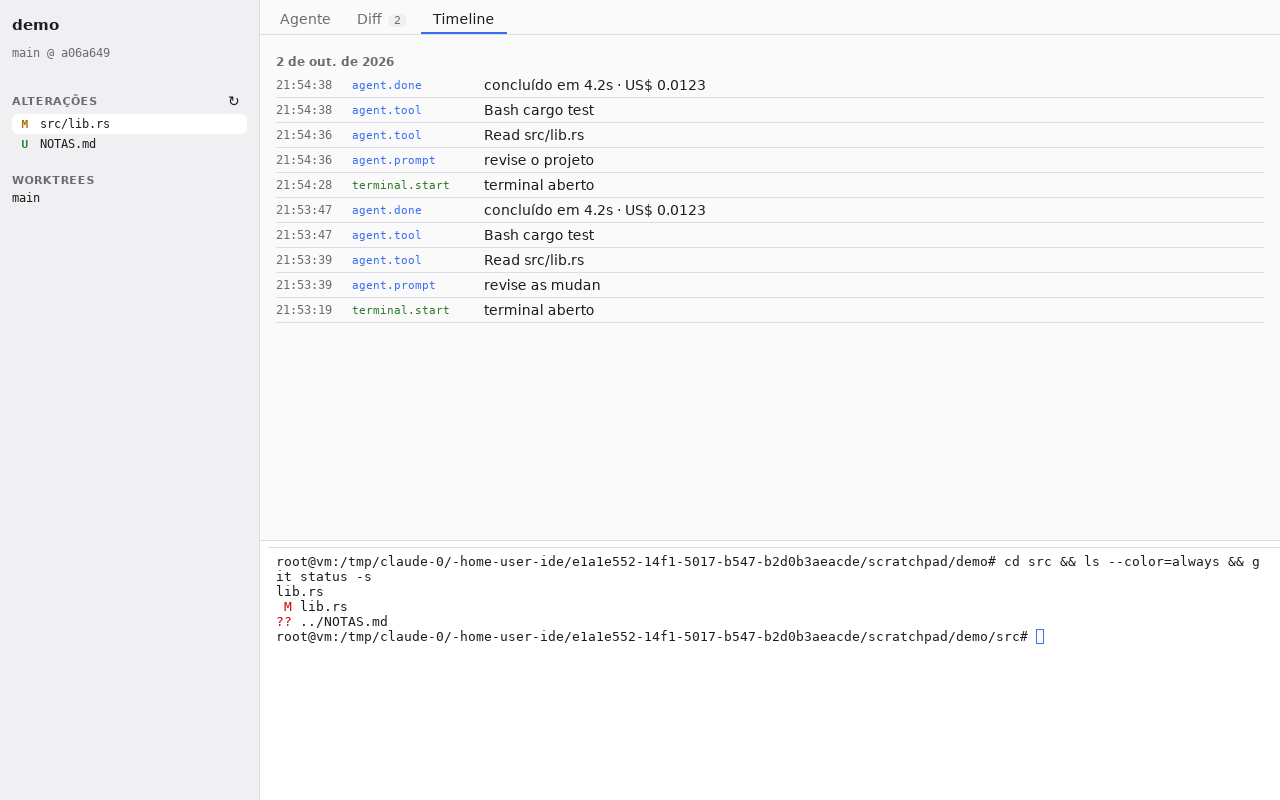
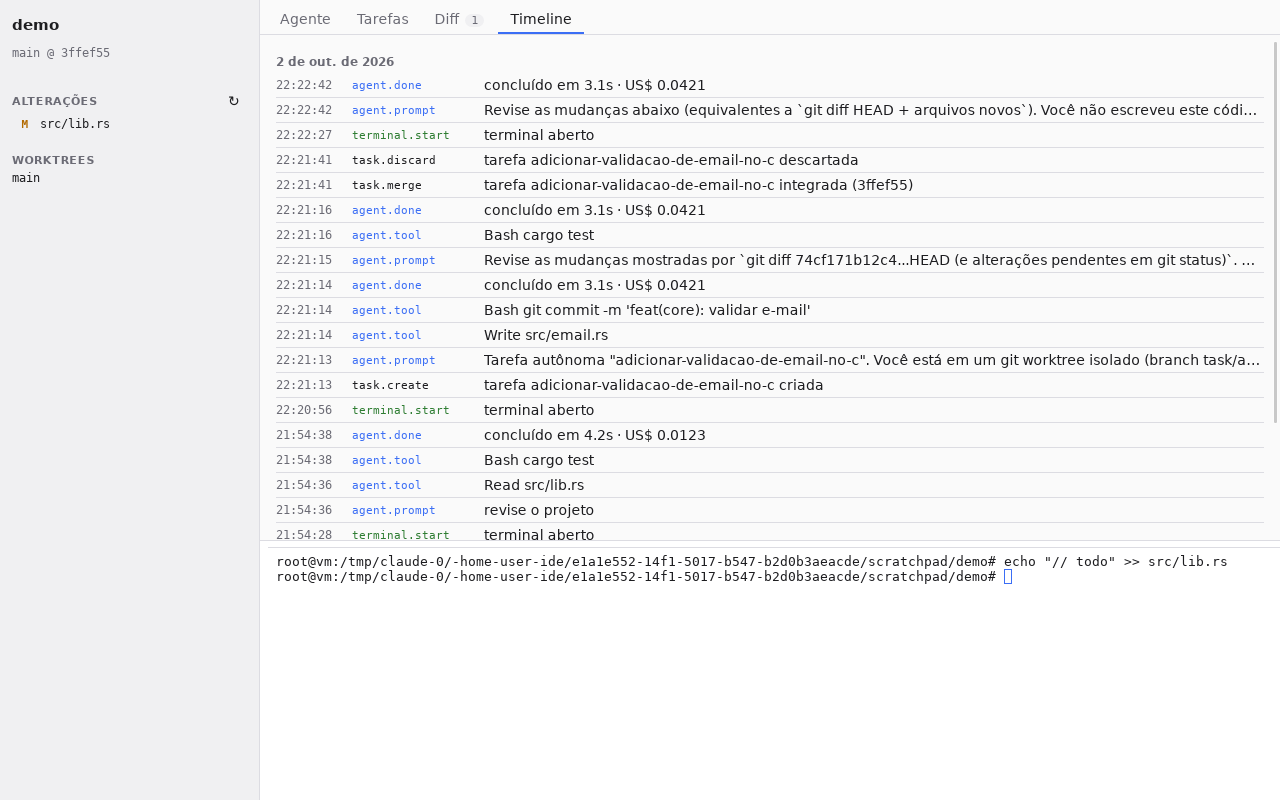
docs: documentar fase 2 com adr de autonomia e capturas
ADR 0002: autonomia total só em worktree de tarefa, checada no Rust, e
estado da tarefa na config do git.

Claude-Session: https://claude.ai/code/session_01Ag7BhT17Ph4mGoDXFdyhVD

diff --git a/README.md b/README.md
@@ -5,27 +5,39 @@ Visão completa e fases em [`docs/ROADMAP.md`](docs/ROADMAP.md).
 
 ## App desktop (Tauri 2 + SolidJS)
 
-![Agente com aprovação de comando](docs/images/agente.png)
+![Tarefa autônoma em worktree](docs/images/tarefa.png)
 
 | | |
 |---|---|
-| ![Diff e terminal](docs/images/diff-terminal.png) | ![Timeline](docs/images/timeline.png) |
+| ![Revisão automática da tarefa](docs/images/revisao.png) | ![Timeline](docs/images/timeline.png) |
+| ![Agente com aprovação de comando](docs/images/agente.png) | ![Diff e terminal](docs/images/diff-terminal.png) |
 
-O que já funciona (Fase 1):
+O que já funciona:
 
+- **Tarefas autônomas** (Fase 2): descreva objetivo e critérios; o app cria um worktree
+  `task/<slug>`, o agente trabalha nele **sem pedir aprovação** e faz commits, e uma
+  **revisão automática** (contexto limpo, roda os testes, não pode editar) dá o veredito.
+  Você vê o diff contra a base e escolhe **Integrar** (merge commit; o worktree é
+  removido) ou **Descartar**. Várias tarefas rodam em paralelo.
 - **Agente** (Claude Agent SDK num sidecar Node): chat com streaming de texto e
-  ferramentas, sessão contínua, "Nova conversa", interromper e três níveis de autonomia:
+  ferramentas, sessões independentes por conversa, interromper e níveis de autonomia:
 
-  | Modo | Leitura | Edição | Comandos |
-  |---|---|---|---|
-  | Planejar | automática | bloqueada | bloqueados |
-  | Assistido | automática | pede aprovação | pede aprovação |
-  | Autônomo | automática | automática | pede aprovação |
+  | Modo | Leitura | Edição | Comandos | Onde |
+  |---|---|---|---|---|
+  | Planejar | automática | bloqueada | bloqueados | qualquer lugar |
+  | Assistido | automática | pede aprovação | pede aprovação | qualquer lugar |
+  | Autônomo | automática | automática | pede aprovação | qualquer lugar |
+  | Total | automática | automática | automáticos | só worktree de tarefa |
+  | Revisão | automática | bloqueada | automáticos | só worktree de tarefa |
+
+- **Revisar antes do commit**: na aba Diff, "Revisar com o agente" manda o diff do
+  branch atual para uma revisão no formato de `.project/conventions/code-review.md`.
 
 - **Terminal** real (PTY) com o seu shell, cores e redimensionamento.
 - **Diff** do working tree contra o HEAD, inclusive arquivos novos.
 - **Timeline** em SQLite: prompts, ferramentas usadas, custo e terminais, por projeto.
-- Barra lateral com branch, alterações e worktrees, atualizada ao fim de cada execução.
+- Barra lateral com branch, alterações e worktrees, atualizada ao fim de cada execução
+  do agente e quando a saída do terminal assenta (depois de um `git commit`, por exemplo).
 
 Monorepo com pnpm workspaces + Cargo workspace. Estrutura e regras em
 [`.project/architecture/monorepo.md`](.project/architecture/monorepo.md).
@@ -50,8 +62,11 @@ feito com `claude`.
 pnpm install
 pnpm dev        # compila o sidecar e abre o app com hot reload, no diretório atual
 pnpm check      # typecheck + fmt + clippy + testes (Rust e sidecar)
-pnpm build      # instaladores em target/release/bundle
+pnpm build      # instaladores em target/release/bundle, com o sidecar embutido
 ```
+
+O instalador leva o sidecar e o CLI nativo do Claude Code (~280 MB no Linux); o Node
+ainda precisa estar instalado na máquina.
 
 O app abre o projeto git do diretório onde foi iniciado.
 

diff --git a/.project/architecture/monorepo.md b/.project/architecture/monorepo.md
@@ -44,6 +44,13 @@ Agente
     → ide_agent::AgentProcess ─stdin JSON lines→ packages/agent (AgentServer → SDK query())
     ←stdout JSON lines─ Outbound → grava timeline → emit("agent://message") → store Solid
   Permissão: SDK canUseTool → permission_request → cartão na UI → permission_response
+
+Tarefa (lib/tasks.ts)
+  task_create → ide_core::tasks::create (worktree task/<slug>, objetivo na config do branch)
+  → prompt na conversa "task:<slug>" em modo full (cwd = worktree)
+  → done sem erro → conversa "review:<slug>" é reiniciada e recebe o prompt de revisão
+    em modo review → veredito extraído do texto (lib/prompts.ts::parseVerdict)
+  → Integrar: task_merge (merge --no-ff) + task_discard
 ```
 
 ## Protocolo do agente
@@ -52,19 +59,33 @@ Definido em `packages/agent/src/protocol.ts` e espelhado em `crates/agent/src/li
 (enums serde) e `apps/desktop/src/lib/agent.ts`. **Mudou um, mude os três** — os testes
 de serialização em `crates/agent` pegam divergências de formato.
 
-| Autonomia | `permissionMode` do SDK | Aprovação na UI |
-|---|---|---|
-| `plan` | `plan` | — (nada é modificado) |
-| `assisted` | `default` | edições e comandos |
-| `autonomous` | `acceptEdits` | comandos |
+Cada mensagem carrega uma `conversation`. Cada conversa tem sua sessão do SDK e roda em
+paralelo às outras: `main` (chat), `task:<slug>` e `review:<slug>`.
 
-Sem aprovação nenhuma (`bypassPermissions`) só na Fase 2, e sempre dentro de um worktree.
+| Autonomia | `permissionMode` do SDK | Aprovação na UI | Restrição |
+|---|---|---|---|
+| `plan` | `plan` | — (nada é modificado) | — |
+| `assisted` | `default` | edições e comandos | — |
+| `autonomous` | `acceptEdits` | comandos | — |
+| `full` | `bypassPermissions` | nenhuma | só worktree de tarefa |
+| `review` | `bypassPermissions` + sem `Edit`/`Write` | nenhuma | só worktree de tarefa |
+
+A restrição é verificada em `agent_send` (Rust). Ver ADR 0002.
+
+## Empacotamento do sidecar
+
+`pnpm build` usa `src-tauri/tauri.bundle.conf.json`, que roda `scripts/bundle-sidecar.mjs`
+(build + `pnpm deploy --prod` com `node-linker=hoisted`, sem a variante de libc que não é
+a da máquina) e inclui `resources/agent/` no instalador. Em runtime o sidecar é procurado
+em `IDE_AGENT_SCRIPT` → recursos do app → `packages/agent/dist` (dev).
+
+`pnpm dev`, `pnpm check` e o CI não usam esse config, então não precisam do deploy.
 
 ## Variáveis de ambiente
 
 | Variável | Uso |
 |---|---|
-| `IDE_AGENT_SCRIPT` | caminho do sidecar (padrão: `packages/agent/dist/index.js` do build local) |
+| `IDE_AGENT_SCRIPT` | caminho do sidecar; tem prioridade sobre o empacotado e o build local |
 | `IDE_NODE` | executável do Node (padrão: `node` do PATH) |
 
 Para testar a UI sem gastar API, aponte `IDE_AGENT_SCRIPT` para um script que fale o

diff --git a/.project/decisions/0002-autonomia-total-so-em-worktree.md b/.project/decisions/0002-autonomia-total-so-em-worktree.md
@@ -1,0 +1,38 @@
+# 0002 — Autonomia total só em worktree de tarefa
+
+- Status: aceita
+- Data: 2026-10-02
+
+## Contexto
+
+A Fase 2 permite que o agente trabalhe sem pedir aprovação (tarefas longas) e que uma
+revisão rode testes sozinha. Sem limites, isso daria ao agente escrita e execução livres
+no branch em que o usuário está trabalhando.
+
+## Decisão
+
+- Dois modos sem aprovação: `full` (edita e executa) e `review` (executa, mas as
+  ferramentas de edição são removidas via `disallowedTools`).
+- Ambos só são aceitos com `cwd` dentro de um **worktree de tarefa**: branch `task/*`
+  em um worktree que não é o principal. A checagem fica no Rust
+  (`ide_core::tasks::is_task_worktree`, chamada em `agent_send`), não na UI nem no
+  sidecar — a UI só deixa de oferecer o modo.
+- Estado da tarefa vive no git: objetivo em `branch.task/<slug>.description` e base em
+  `branch.task/<slug>.idebase`. Apagar o branch apaga o estado.
+- Integrar exige worktrees limpos e usa `merge --no-ff`; em conflito, `merge --abort`
+  e nada muda no branch principal.
+
+## Alternativas consideradas
+
+- Checar o modo só na UI — qualquer bug ou chamada direta ao comando furaria a regra.
+- Guardar tarefas no SQLite — duplicaria o que o git já sabe e poderia divergir dele.
+- Sandbox de sistema operacional — mais forte, mas fica para depois; o worktree já
+  isola o branch do usuário, que é o risco principal.
+
+## Consequências
+
+- ✅ O pior caso de uma tarefa é um branch descartável.
+- ✅ `git branch --edit-description` e `scripts/worktree.sh` continuam compatíveis.
+- ❌ `full` ainda pode afetar o resto do sistema via comandos (rede, arquivos fora do
+  worktree). O prompt da tarefa pede para não sair do diretório, mas isso não é
+  garantia — um sandbox de SO é o próximo passo de segurança.

diff --git a/docs/ROADMAP.md b/docs/ROADMAP.md
@@ -103,7 +103,7 @@ SolidJS UI: chat · diff · terminal · timeline · (Monaco, fase 3)
 |---|---|---|
 | 0 | Kit com Claude Code: Brain, agentes, skills, hooks, scripts (este repo) | ✅ |
 | 1 | Shell Tauri: chat (sidecar SDK), diff, terminal PTY, timeline SQLite | ✅ (empacotar o sidecar no instalador fica para a 2) |
-| 2 | Worktree por tarefa na UI, autonomia total em worktree, pipeline de revisão, sidecar no instalador | — |
+| 2 | Worktree por tarefa na UI, autonomia total em worktree, pipeline de revisão, sidecar no instalador | ✅ (Node embutido e sandbox de SO ficam para depois) |
 | 3 | Monaco, LSP, tree-sitter como tools MCP | — |
 | 4 | Background agent, daily brief, debugger, embeddings | — |
 
